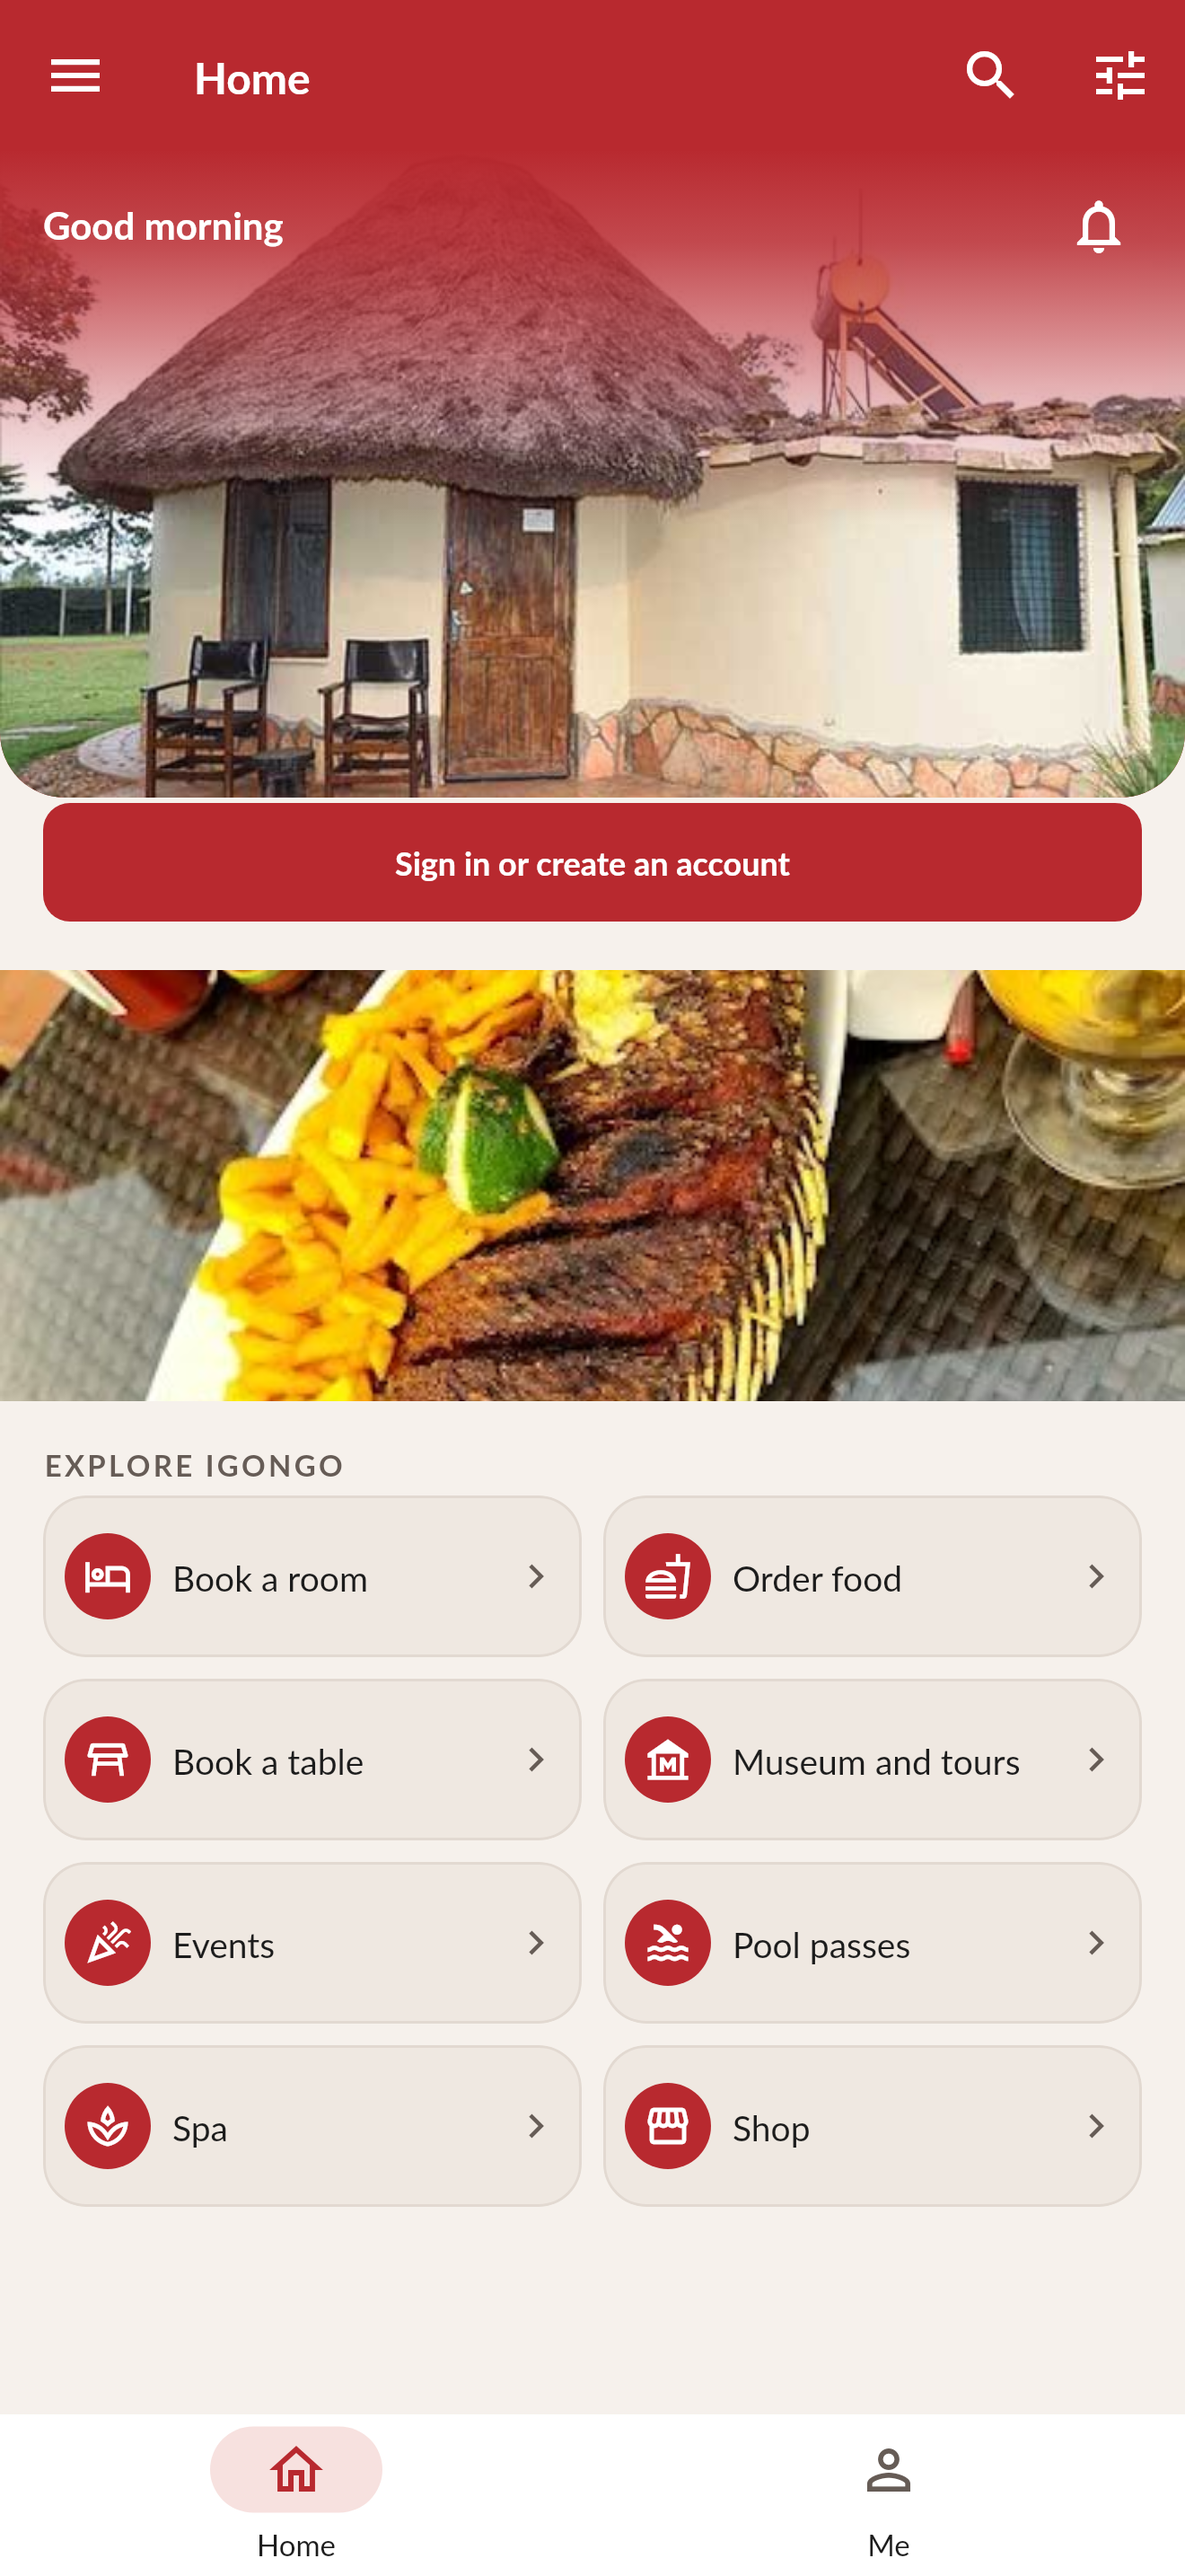
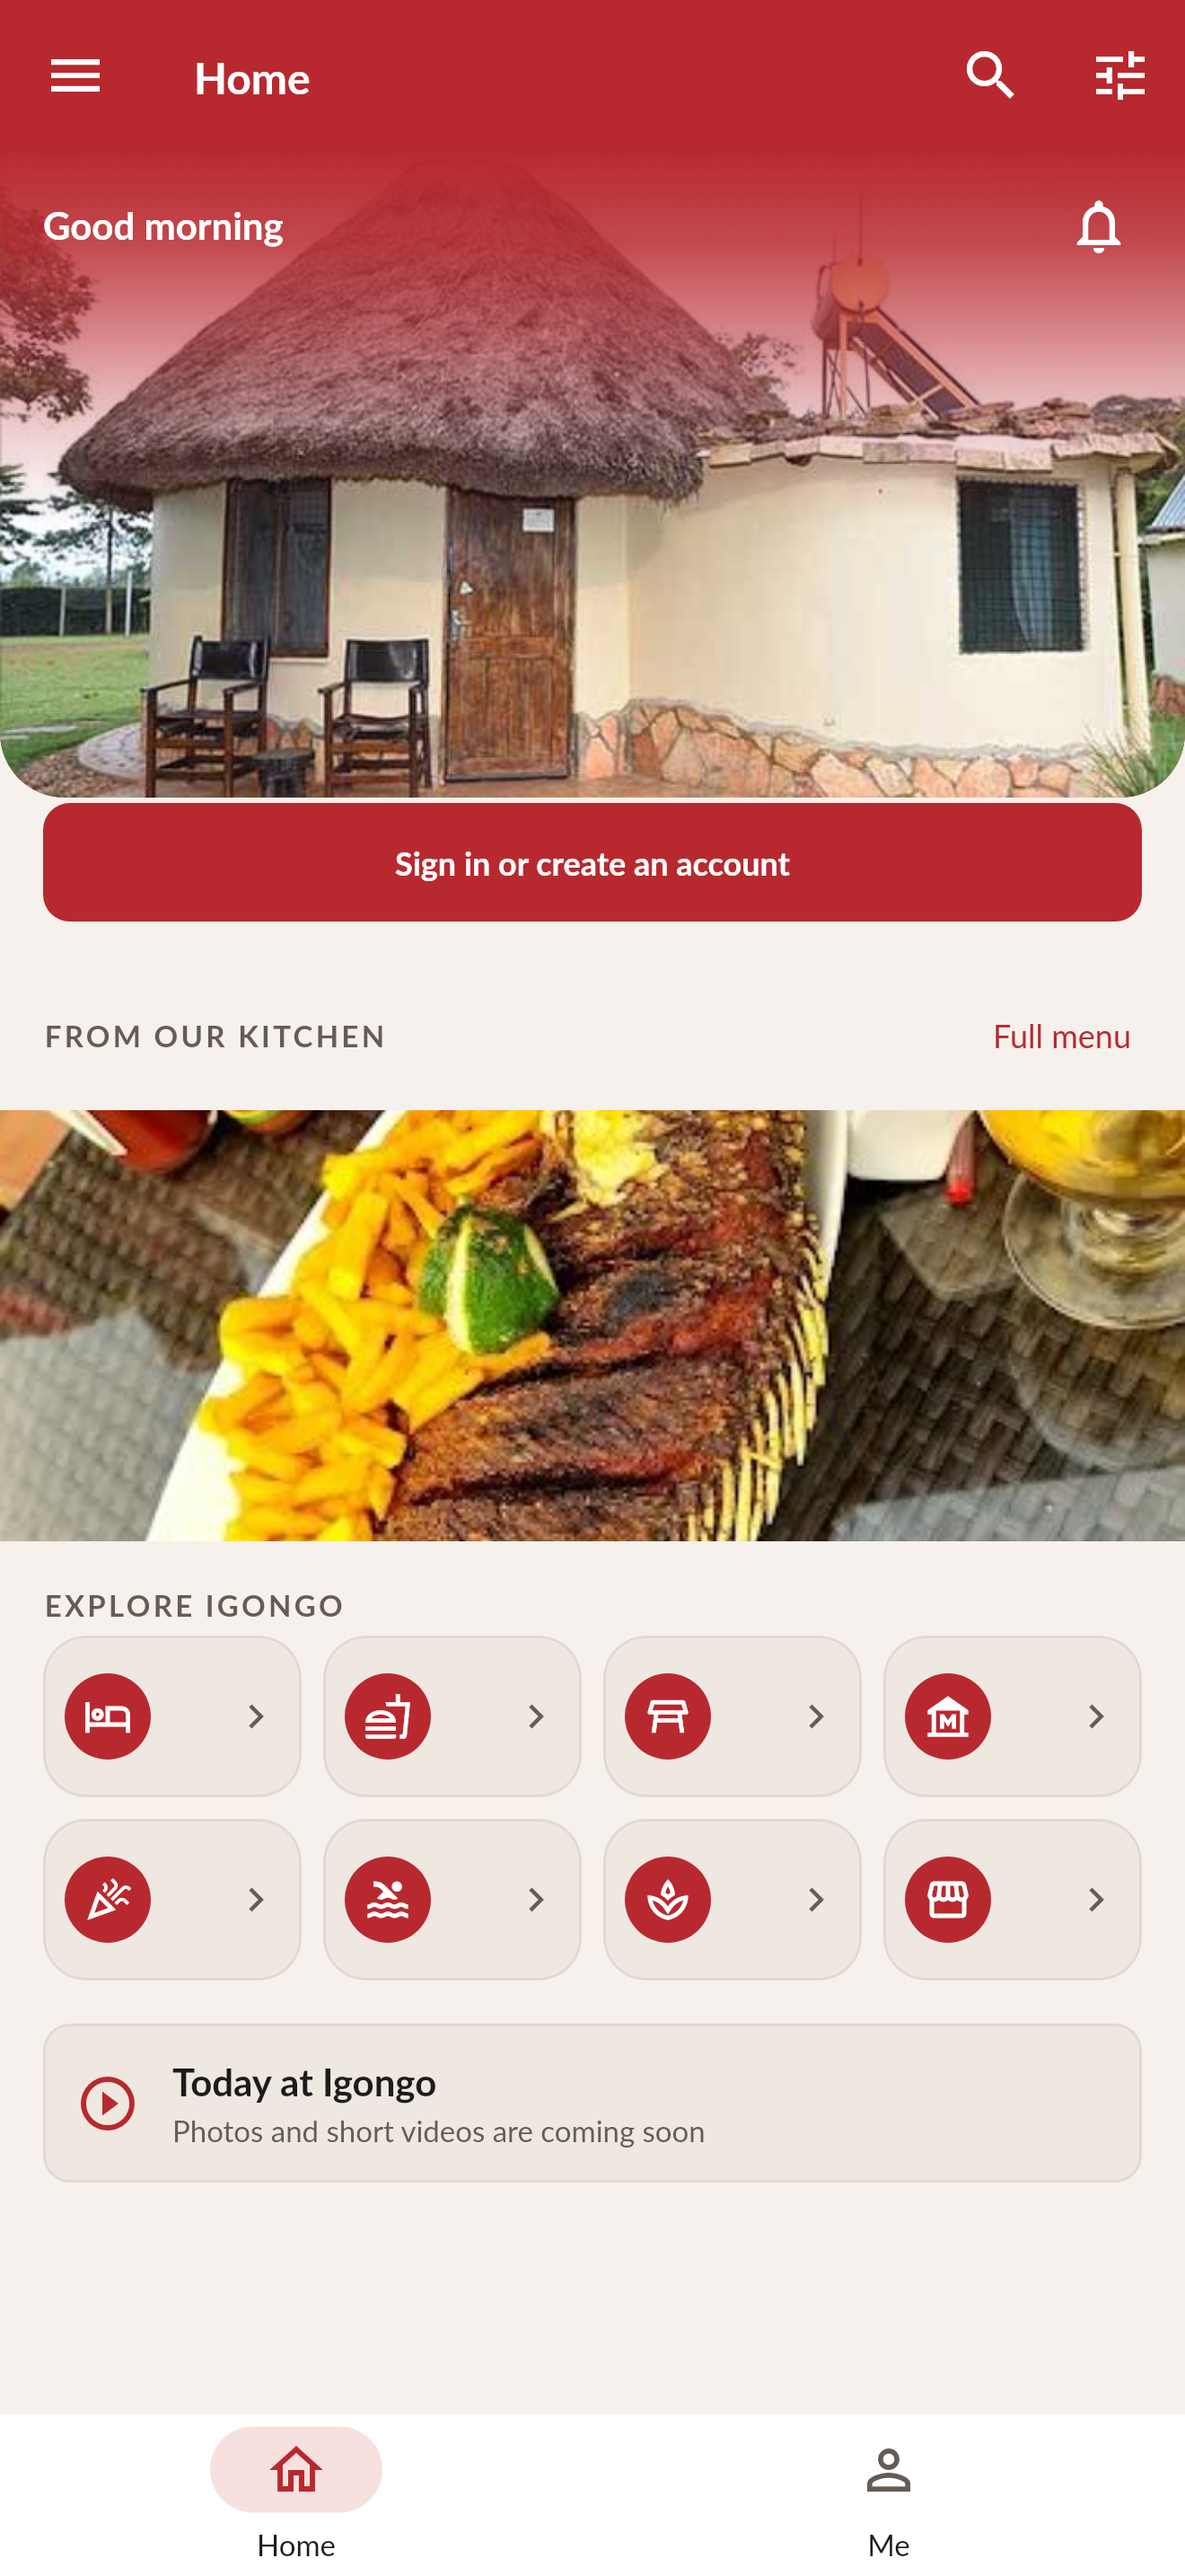
Replace guest Home with the new design (#40)
* Replace guest Home with the new design

The guest Home (S00-21 for guests) now follows the approved design:
- Greeting with the time of day, first name and "Igongo, Mbarara", with a round bell.
- "Explore Igongo": eight areas in four columns, reusing AreaCard and TileGrid.
- "From our kitchen": live dishes from the first outlet's menu, one card at a
  time at full size, moving on every two seconds, linking to the full menu.
- "Today at Igongo": placeholder below the fold.

Staff home is unchanged. Removes the guest-only FoodShopCard. TileGrid gains
an optional fixed column count.

Claude-Session: https://claude.ai/code/session_016ozUviPp9MyRsnD3WPuhDq

* Import the theme extension in the new guest Home widgets

The palette and text getters come from shared/theme/theme.dart, which the
analyze step reported as missing in guest_greeting, kitchen_card and
today_placeholder.

Claude-Session: https://claude.ai/code/session_016ozUviPp9MyRsnD3WPuhDq

* Add the WhatsApp button and placeholder photos to the guest Home

- Floating WhatsApp button at the bottom right of the guest Home. It opens
  wa.me with the hotel's number (256793128137, the international form of
  0793128137) and the default pre-filled message, through url_launcher.
- The number and message live in one config file, so the super admin
  setting can replace them later.
- Kitchen cards show a placeholder photo (the existing app-store food menu
  screenshot) until the hotel sends dish photos.
[…]

diff --git a/apps/igongo/lib/modules/m00_app_shell/presentation/role_home/role_home_screen.dart b/apps/igongo/lib/modules/m00_app_shell/presentation/role_home/role_home_screen.dart
@@ -22,6 +22,7 @@ import 'guest_home_tiles.dart';
 import 'guest_tile_list.dart';
 import 'role_header.dart';
 import 'role_shortcuts.dart';
+import 'today_placeholder.dart';
 
 /// The home screen of the current role.
 class RoleHomeScreen extends ConsumerWidget {
@@ -57,11 +58,11 @@ class RoleHomeScreen extends ConsumerWidget {
             ),
           ),
         // Step 1c: guests get the meals slideshow edge to edge (no side margins), like the banner.
-        if (role.isClient)
-          Padding(
-            padding: const EdgeInsets.only(top: IgongoSpace.lg),
-            child: FoodShopCard(onTap: () => screen.open('S62-01')),
-          ),
+        if (role.isClient) ...[
+          // Step 1d: the dishes, with a link to the full menu.
+          SectionHeader('From our kitchen', action: 'Full menu', onAction: () => screen.open('S62-01')),
+          FoodShopCard(onTap: () => screen.open('S62-01')),
+        ],
         // Step 2: the role's tiles (no made-up counts: each screen shows its own live numbers).
         SectionHeader(role.isClient ? 'Explore Igongo' : 'Today'),
         Padding(
@@ -69,6 +70,8 @@ class RoleHomeScreen extends ConsumerWidget {
           child: role.isClient
               // Guests: same-size one-line area cards, two to a row (more on wider screens).
               ? GuestTileList(
+                  // Four across, as in the approved design.
+                  columns: 4,
                   children: [
                     for (final tile in role.tiles)
                       if (!hiddenGuestTileIds.contains(tile.screenId))
@@ -90,6 +93,12 @@ class RoleHomeScreen extends ConsumerWidget {
                   ],
                 ),
         ),
+        // Step 3b: guests get the "Today at Igongo" placeholder below the fold.
+        if (role.isClient)
+          const Padding(
+            padding: EdgeInsets.all(IgongoSpace.lg),
+            child: TodayPlaceholder(),
+          ),
         // Step 3: the staff shortcuts; guests see the client app instead.
         if (!role.isClient) ...[
           const SectionHeader('Shortcuts'),

diff --git a/apps/igongo/lib/modules/m00_app_shell/presentation/role_home/today_placeholder.dart b/apps/igongo/lib/modules/m00_app_shell/presentation/role_home/today_placeholder.dart
@@ -1,0 +1,43 @@
+// "Today at Igongo": a placeholder in the shape of the final panel. It sits
+// below the fold; photos and short videos are added once the hotel sends them.
+
+import 'package:igongo_tokens/igongo_tokens.dart';
+import 'package:material_ui/material_ui.dart';
+
+import '../../../../shared/theme/theme.dart';
+
+import '../../../../shared/ui/card/igongo_card.dart';
+
+/// The placeholder panel for today's news.
+class TodayPlaceholder extends StatelessWidget {
+  /// Creates the placeholder.
+  const TodayPlaceholder({super.key});
+
+  @override
+  Widget build(BuildContext context) {
+    final p = context.palette;
+    return IgongoCard(
+      color: p.surfaceAlt,
+      child: Row(
+        children: [
+          // Step 1: the icon, in the brand red.
+          Icon(Icons.play_circle_outline, color: p.primary),
+          const SizedBox(width: IgongoSpace.md),
+          // Step 2: the title and a line saying what is coming.
+          Expanded(
+            child: Column(
+              crossAxisAlignment: CrossAxisAlignment.start,
+              children: [
+                Text('Today at Igongo', style: context.text.titleSmall?.copyWith(color: p.text)),
+                Text(
+                  'Photos and short videos are coming soon',
+                  style: context.text.bodySmall?.copyWith(color: p.textMuted),
+                ),
+              ],
+            ),
+          ),
+        ],
+      ),
+    );
+  }
+}

diff --git a/apps/igongo/lib/modules/m00_app_shell/presentation/role_home/guest_tile_list.dart b/apps/igongo/lib/modules/m00_app_shell/presentation/role_home/guest_tile_list.dart
@@ -6,18 +6,21 @@ import 'package:material_ui/material_ui.dart';
 
 /// Lays [children] out in equal-width columns (about 180 px each, at least two).
 class GuestTileList extends StatelessWidget {
-  /// Creates the list.
-  const GuestTileList({super.key, required this.children});
+  /// Creates the list. Pass [columns] to fix the count; otherwise it follows the width.
+  const GuestTileList({super.key, required this.children, this.columns});
 
   /// The tiles (AreaCard), all of the same height.
   final List<Widget> children;
 
+  /// A fixed number of columns, or null to fit the width.
+  final int? columns;
+
   @override
   Widget build(BuildContext context) => LayoutBuilder(
     builder: (context, box) {
-      // Step 1: how many columns fit, then each tile's width.
-      final columns = (box.maxWidth / 180).floor().clamp(2, 4);
-      final width = (box.maxWidth - IgongoSpace.sm * (columns - 1)) / columns;
+      // Step 1: a fixed count if given, else how many columns fit; then each tile's width.
+      final count = columns ?? (box.maxWidth / 180).floor().clamp(2, 4);
+      final width = (box.maxWidth - IgongoSpace.sm * (count - 1)) / count;
       // Step 2: a wrap keeps rows tidy at any width.
       return Wrap(
         spacing: IgongoSpace.sm,
